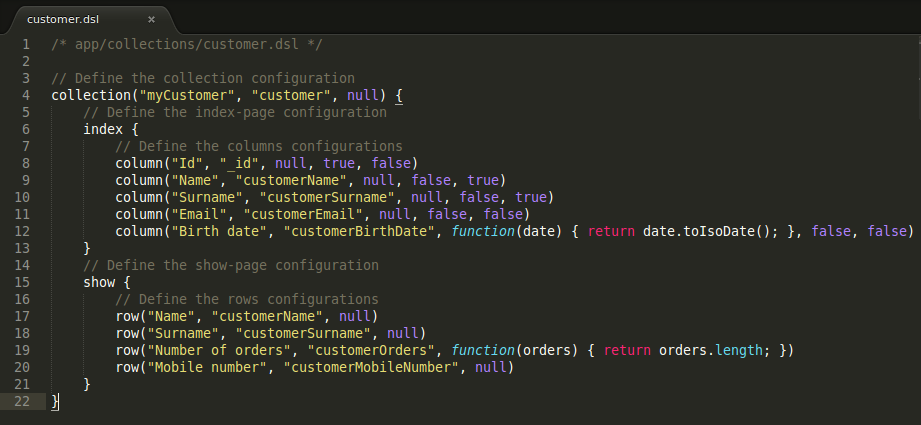
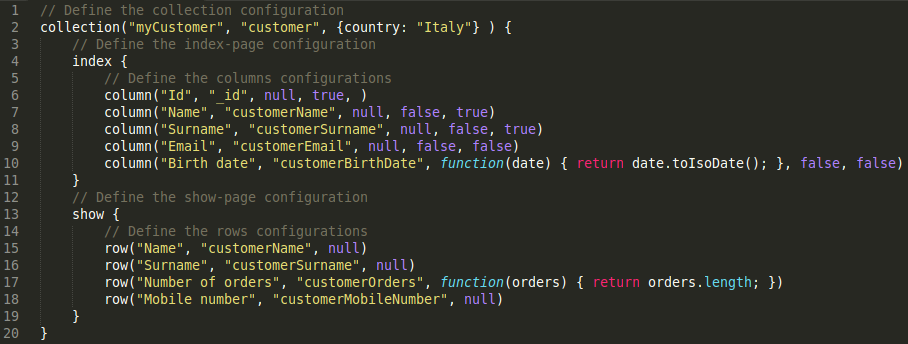
Incrementi ManualeSviluppatore

Changed region(s): [[0.0, 0.0, 1.0, 0.9884]]

diff --git a/documenti/ManualeSviluppatore/capitolo-configurazione-collection.tex b/documenti/ManualeSviluppatore/capitolo-configurazione-collection.tex
@@ -1,11 +1,54 @@
 \section{Configurazione Collection}
 
-All'interno della cartella \begin{lstlisting}
-..\scaffold\collection
- \end{lstlisting} dovranno essere presenti i file di configurazione delle Collection.
+All'interno della cartella ../scaffold/collection andranno inseriti i file di configurazione delle Collection. L'applicazione infatti, all'avvio del server, andrà a leggere il contenuto della directory in questione e prelevare sequenzialmente tutti i file con estensione \code{.dsl} contenuti al suo interno. Questi file andranno poi ad essere interpretati dall'interprete DSL, il quale si occuperà di generare tutti i modelli necessari alla configurazione delle varie collection.
+
+La configurazione di una collection avviene tramite l'editing di un file DSL. La configurazione base deve avere la seguente sintassi:
+\medskip
+\begin{lstlisting}
+collection("collectionName","collectionReference", collectionQuery) {
+	index {
+	}
+	show {
+	}
+}		
+\end{lstlisting}
+
+I parametri acettati dalla configurazione di una collection sono i seguenti: 
+\begin{itemize}
+\item[] \code{\textbf{collectionName}} corrisponde al nome della collection che verrà visualizzato nell'applicazione e deve essere di tipo String;
+\item[] \code{\textbf{collectionReference}} corrisponde al nome effettivo della collection nel database MongoDB delle collections e deve essere di tipo String;
+\item[] \code{\textbf{collectionQuery}} corrisponde ad un oggetto javascript tramite il quale può essere effettuata una query sulla collection.
+\end{itemize}
+
+Ciascuna index-page è composta da una serie di \texttt{column} e può essere configurata come segue: 
+\begin{lstlisting}
+		index {
+			column("columnLabel", "attributeReference", transformation, selectable, sortable)
+		}		
+\end{lstlisting}
+I parametri acettati dalla configurazione di una column di una index-page sono i seguenti: 
+\begin{itemize}
+\item[] \code{\textbf{columnLabel}} corrisponde al nome viasualizzato nell'intestazione della colonna;
+\item[] \code{\textbf{attributeReference}} corrisponde al nome effettivo dell'attributo dei document della collection nel database;
+\item[] \code{\textbf{transformation}} corrisponde ad una funzione javascript che si occupa di effettuare una trasformazione sul valore dell'attributo. Tale funzione per effettuare l'effettiva trasformazione deve restituire un valore con il \code{return};
+\item[] \code{\textbf{selectable}} corrisponde ad un valore booleano che indica se l'elemento della colonna è selezionabile, ovvero se nell'index-page conterrà un link che rimanda alla corrispondente show-page del document;
+\item[] \code{\textbf{sortable}} corrisponde ad un valore booleano che indica se la tabella è ordinabile secondo la colonna.
+\end{itemize}
+
+Ciascuna show-page è composta da una serie di \texttt{row} che può essere configurata come segue: 
+\begin{lstlisting}
+		show {
+			row("rowLabel", "attributeReference", transformation)
+		}		
+\end{lstlisting}
+I parametri acettati dalla configurazione di una column di una index-page sono i seguenti: 
+\begin{itemize}
+\item[] \code{\textbf{rowLabel}} corrisponde al nome viasualizzato nell'intestazione della riga;
+\item[] \code{\textbf{attributeReference}} corrisponde al nome effettivo dell'attributo del document;
+\item[] \code{\textbf{transformation}} corrisponde ad una funzione javascript che si occupa di effettuare una trasformazione sul valore dell'attributo. Tale funzione per effettuare l'effettiva trasformazione deve restituire un valore con il \code{return};
+\end{itemize}
+
+Di seguito viene fornita un'immagine di esempio in cui viene configurata l'index-page e la show-page relativa ad una collection di \textit{clienti}. Tale configurazione prende tutti i \textit{clienti} di nazionalità italiana.
 
 
-
-
-
-
+\includegraphics[scale=0.5]{images/dsl-example.png} 

diff --git a/documenti/ManualeSviluppatore/local.tex b/documenti/ManualeSviluppatore/local.tex
@@ -21,6 +21,40 @@
  .
 }
 
+\definecolor{lightgray}{rgb}{.9,.9,.9}
+\definecolor{darkgray}{rgb}{.4,.4,.4}
+\definecolor{purple}{rgb}{0.65, 0.12, 0.82}
+
+\lstdefinelanguage{JavaScript}{
+  keywords={typeof, new, true, false, catch, function, return, null, catch, switch, var, if, in, while, do, else, case, break},
+  keywordstyle=\color{blue}\bfseries,
+  ndkeywords={class, export, boolean, throw, implements, import, this},
+  ndkeywordstyle=\color{darkgray}\bfseries,
+  identifierstyle=\color{black},
+  sensitive=false,
+  comment=[l]{//},
+  morecomment=[s]{/*}{*/},
+  commentstyle=\color{purple}\ttfamily,
+  stringstyle=\color{red}\ttfamily,
+  morestring=[b]',
+  morestring=[b]"
+}
+
+\lstset{
+   language=JavaScript,
+   extendedchars=true,
+   %basicstyle=\footnotesize\ttfamily,
+   showstringspaces=false,
+   showspaces=false,
+   numbers=left,
+   numberstyle=\footnotesize,
+   numbersep=20pt,
+   tabsize=2,
+   breaklines=true,
+   showtabs=false,
+   captionpos=b
+}
+
 %%%%%%%%%%%%%%
 %  FUNZIONI  %
 %%%%%%%%%%%%%%

diff --git a/documenti/ManualeSviluppatore/capitolo-configurazione-progetto.tex b/documenti/ManualeSviluppatore/capitolo-configurazione-progetto.tex
@@ -35,8 +35,8 @@ Lo scaffolding genera lo scheletro dell'applicazione includendo i seguenti file 
  \item \textbf{\file{\texttt{ProjectName}/lib/controller/middleware/}} \\
 	Contiene i file che hanno il ruolo di middleware nel framework Express.
 
- \item \textbf{\file{\texttt{ProjectName}/lib/controller/controller/}} \\
-	Contiene i file che hanno il ruolo di controller nel framework Express.
+ \item \textbf{\file{\texttt{ProjectName}/lib/controller/services/}} \\
+	Contiene i file che hanno il ruolo di service nel framework Express.
 
  \item \textbf{\file{\texttt{ProjectName}/lib/utils/}} \\
 	Contiene i file di generica utilità, che non rientrano nella classificazione tra model, view e controller.

diff --git a/documenti/NormeDiProgetto/capitolo-supporto.tex b/documenti/NormeDiProgetto/capitolo-supporto.tex
@@ -414,8 +414,8 @@ La struttura del repository, la cui cartella principale chiameremo \file{root}, 
  \item \textbf{\file{root/lib/controller/middleware/}} \\
 	Contiene i file che hanno il ruolo di middleware nel framework Express.
 
- \item \textbf{\file{root/lib/controller/controller/}} \\
-	Contiene i file che hanno il ruolo di controller nel framework Express.
+ \item \textbf{\file{root/lib/controller/service/}} \\
+	Contiene i file che hanno il ruolo di service nel framework Express.
 
  \item \textbf{\file{root/lib/utils/}} \\
 	Contiene i file di generica utilità, che non rientrano nella classificazione tra model, view e controller.

diff --git a/documenti/ManualeSviluppatore/ManualeSviluppatore.tex b/documenti/ManualeSviluppatore/ManualeSviluppatore.tex
@@ -2,6 +2,7 @@
 \input{../../modello/global}
 \input{local}
 
+
 \begin{document}
 
 \makeFrontPage
